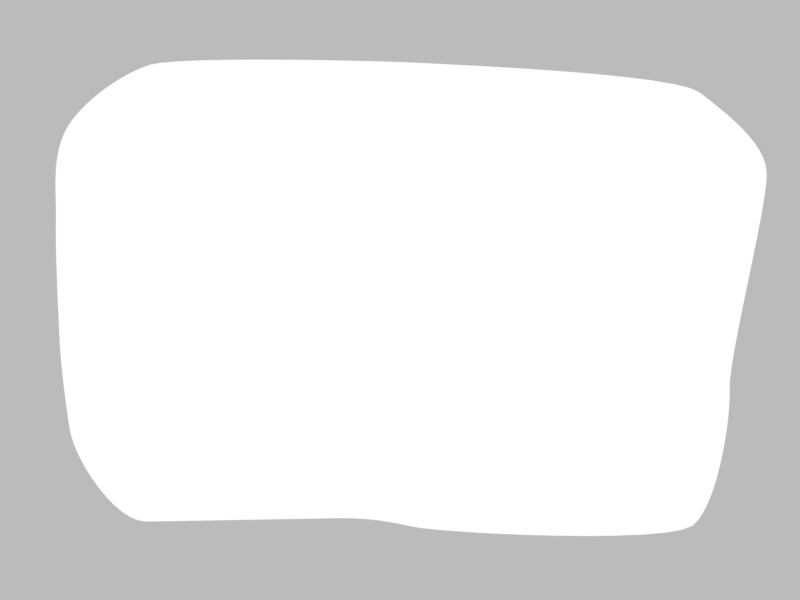
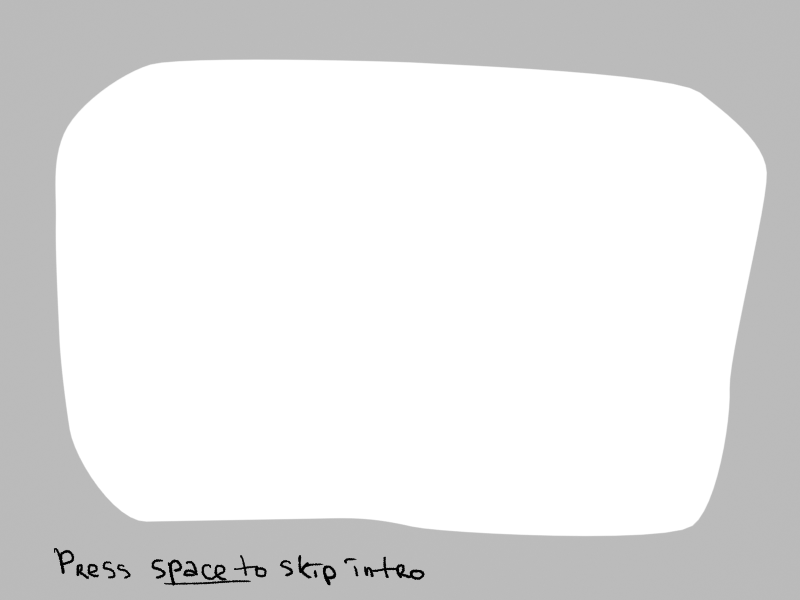
update

Changed region(s): [[0.1875, 0.93, 0.5312, 0.99], [0.0625, 0.9, 0.1562, 0.96]]

diff --git a/Unit2/mp2/sketch.js b/Unit2/mp2/sketch.js
@@ -3,10 +3,12 @@ let state = 0;
 let window1, landscape, nightsky, sun, serge, grassAct1;
 let hare, sardana, horse, horsedead, night, fire, skullrise, bleedingskull, fan, fanmirror, fans, fansmirror, fangroup1, fangroup2;
 let floor, eyelid1, eyelid2;
+let knock;
 //act2 assets
 let cameratrigger, cameratrigger1, cameratrigger2, cameratrigger3, cameratrigger4, cameratrigger5, maskentrance;
 let cameratriggerupwoods, cameratriggerupdarkness, cameratriggerdowndarkness, cameratriggerupskull01, cameratriggerrightskull01;
 let triggerrightskull02, triggerdownskull02, triggerdownskull03, triggerleftskull03, triggerleftskull04, triggerupskull04;
+let quiet;
 //let camtr;
 let animationtrigger;
 let worldmap;
@@ -98,6 +100,12 @@ function preload(){
   balagan.visible = false;
   balagan.ani.looping = false;
   balagan.ani.stop();
+  knock = new Sprite(400, 300);
+  knock.addImage("assets/images/act1/knock.png");
+  knock.collider = "none";
+  knock.visible = false;
+  quiet = loadImage("assets/images/act2/quiet.png");
+
   goldenskull01 = new Sprite(685, 228, 232, 456, "none");
   goldenskull01.addImage("assets/images/act2/skull01.png");
   goldenskull01.visible = false;
@@ -426,8 +434,10 @@ switch (state) {
     suorij.overlap(animationtrigger, suoridle);
   image(map2, 0, 0);
   balagan.visible = true;
+  knock.visible = true;
   if (mouse.released()) {
     if (mouseX < 125 && mouseY > 316 && mouseY <569){
+      knock.remove();
       balagan.ani.play();
       suorij.vel.x = 3;
     }		
@@ -453,6 +463,7 @@ switch (state) {
   //state with darkness
   case 7:
   image(map4, 0, 0);
+  image(quiet, 0, 0);
   movement();
   //if (suorij.y <= 149){
   //  suorij.y = 600;
